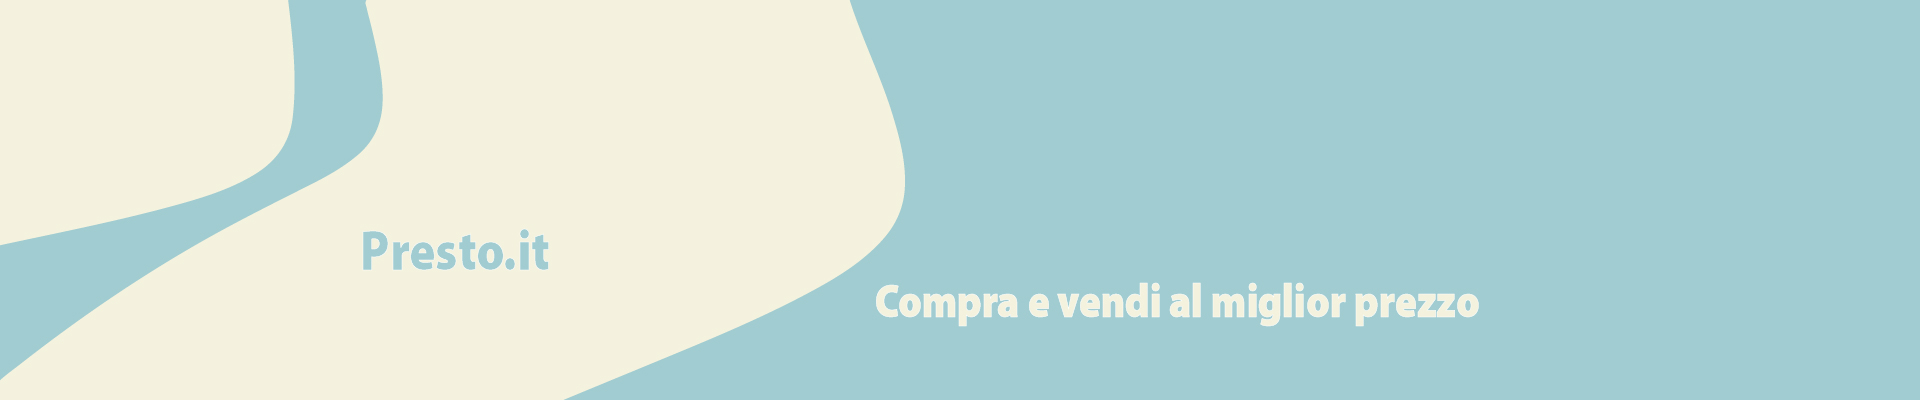
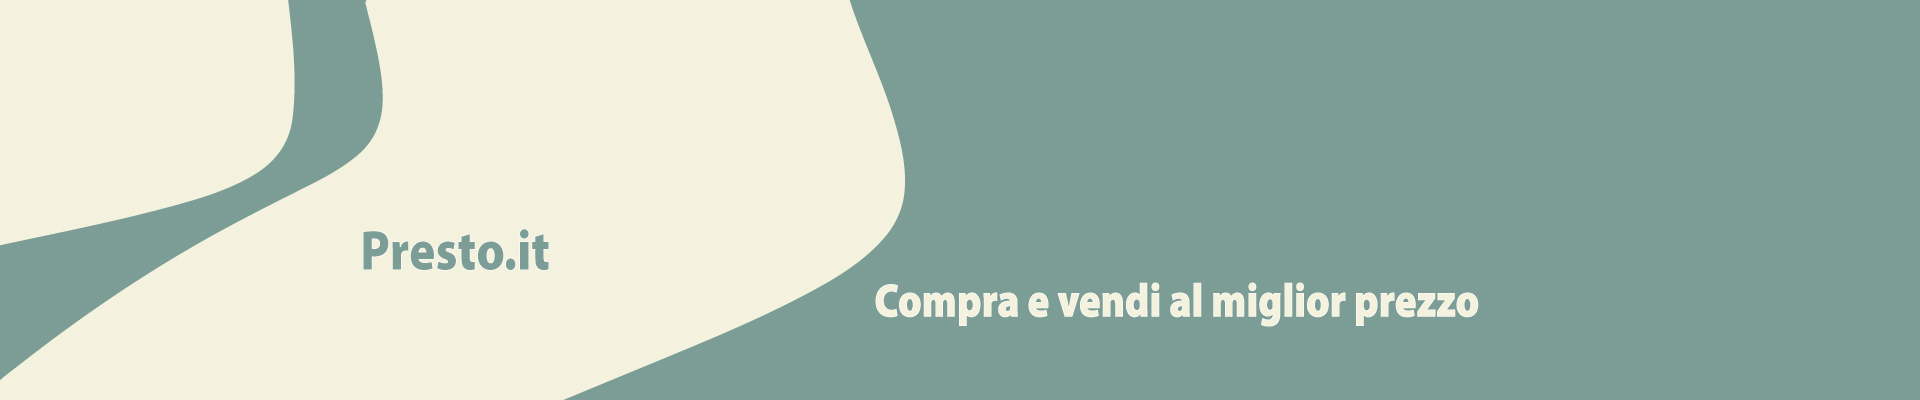
reso leggibile login e register

diff --git a/Progetto-Finale/resources/css/app.css b/Progetto-Finale/resources/css/app.css
@@ -1,7 +1,6 @@
 @import "bootstrap";
 @import "bootstrap-icons";
 
-
 body {
     background-color: #f4f2de;
 }
@@ -26,7 +25,7 @@ header {
 }
 
 .colorNavbar {
-    background-color: #a1ccd1; /* Opacità del 70% */
+    background-color: #7c9d96; /* Opacità del 70% */
 }
 
 .BackGroundcolor {

diff --git a/Progetto-Finale/resources/views/components/navbar.blade.php b/Progetto-Finale/resources/views/components/navbar.blade.php
@@ -1,5 +1,4 @@
-<nav class="navbar navbar-expand-lg w-100 border-top border-bottom border-body colorNavbar sticky-top"
-    data-bs-theme="dark">
+<nav class="navbar navbar-expand-lg w-100  border-bottom border-body colorNavbar sticky-top" data-bs-theme="dark">
     <div class="container-fluid">
         <a class="navbar-brand d-flex align-middle" href="{{ route('home') }}">Presto.it</a>
         <button class="navbar-toggler" type="button" data-bs-toggle="collapse" data-bs-target="#navbarSupportedContent"

diff --git a/Progetto-Finale/resources/views/components/card.blade.php b/Progetto-Finale/resources/views/components/card.blade.php
@@ -3,7 +3,7 @@
     <div class="card-body BackGroundcolor  text-white ">
         <h4 class="card-title">{{ $title }}</h4>
         <h6 class="card-subtitle mb-2  text-white ">{{ \App\Custom\Currency::formatEuro($price) }}</h6>
-        <p class="card-text">{{ $description }}</p>
+        <p class="card-text inline ">{{ $description }}</p>
         <div class="d-flex justify-content-center ">
             <a href="" class="text-white mb-3">{{ $category }}</a>
 

diff --git a/Progetto-Finale/resources/views/auth/login.blade.php b/Progetto-Finale/resources/views/auth/login.blade.php
@@ -3,7 +3,7 @@
     <div class="container my-5 ">
         <div class="row">
             <div class="col-8 mx-auto">
-                <div class="card p-3 blurBackGround text-white w-100">
+                <div class="card p-3 BackGroundcolor text-white w-100">
                     <form action="/login" method="POST">
                         @csrf
                         <h3>Accedi</h3>

diff --git a/Progetto-Finale/resources/views/auth/register.blade.php b/Progetto-Finale/resources/views/auth/register.blade.php
@@ -3,7 +3,7 @@
     <div class="container  mt-5">
         <div class="row">
             <div class="col-12 mx-auto  ">
-                <div class="card p-3 text-white blurBackGround ">
+                <div class="card p-3 text-white BackGroundcolor ">
                     <form action="/register" method="POST">
                         @csrf
                         <h3>Registrati</h3>

diff --git a/Progetto-Finale/resources/views/home.blade.php b/Progetto-Finale/resources/views/home.blade.php
@@ -85,6 +85,6 @@
                     @endforeach
                 </div>
             </section>
-            
+
 </x-main>
 <x-footer />
